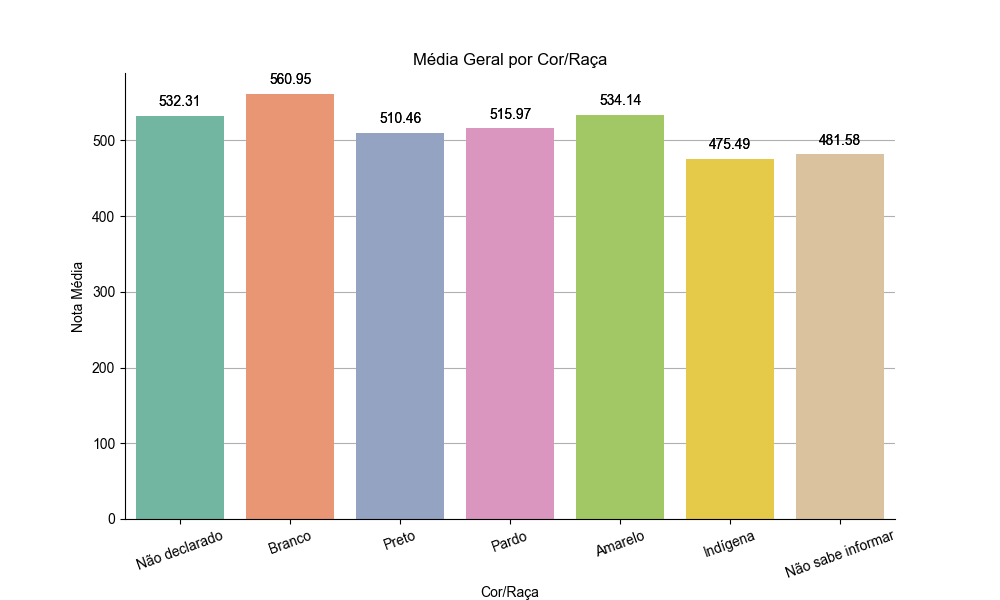
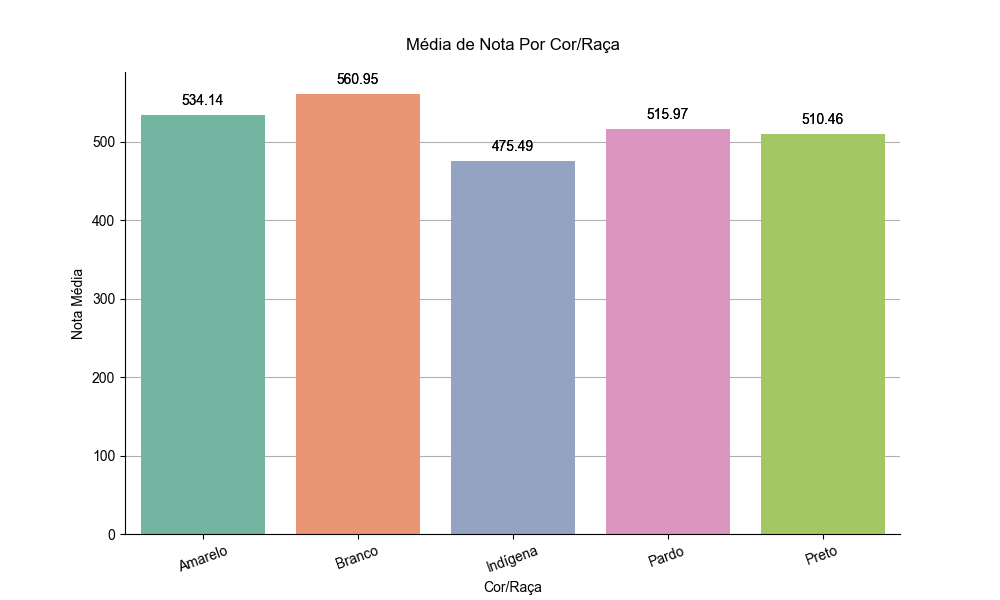
update - plot raça/escola

diff --git a/filtroDados/escolaNota.py b/filtroDados/escolaNota.py
@@ -4,9 +4,9 @@ df_notaEscola = pd.read_csv("C:\Projetos Pessoais\DataScience\/0_dados_pesados\d
 
 '''
 Testagem dos dados
-'''
-print(df_notaEscola.columns)
-print(df_notaEscola.isna().sum())
+# '''
+# print(df_notaEscola.columns)
+# print(df_notaEscola.isna().sum())
 
 # Criar coluna com 'média geral'
 # Criação de coluna generalista para "eliminados" e "presentes"
@@ -41,14 +41,14 @@ mapeamento_cor_raca = {
     5: 'Indígena'
 }
 media_raca['Cor/Raça'] = media_raca['Cor/Raça'].replace(mapeamento_cor_raca)
-print(media_raca)
+# print(media_raca)
 
 # Quantidade de alunos negros, brancos e pardos em escola publica/privada
 
 raca_porEscola = df_notaEscola[df_notaEscola['ELIMINADOS_CONC'] == 'Presente']\
                  .loc[df_notaEscola['TP_COR_RACA'].isin([1,2,3])]\
                  .groupby(['TP_ESCOLA', 'TP_COR_RACA'])['TP_COR_RACA'].count()
-# print(raca_porEscola)
+print(raca_porEscola)
 
 # Inscritos por tipo/escola que faltaram ou estava presentes 
 
@@ -77,17 +77,19 @@ media_tipoEscola_porUF = df_notaEscola[df_notaEscola['ELIMINADOS_CONC'] == 'Pres
 PLOTAGEM
 '''
 cores2 = sns.color_palette("Set2")
+media_raca_sorted = media_raca.sort_values('Cor/Raça')
+
 """ Barplot - média por raça"""
-plt.figure(figsize=(8, 4))
-sns.barplot(x='Cor/Raça', y='Nota Média', data=media_raca)
+plt.figure(figsize=(10, 6))
+sns.barplot(x='Cor/Raça', y='Nota Média', data=media_raca_sorted)
 sns.set_palette(cores2)
 # Adicionar os valores das barras no gráfico
-ax = sns.barplot(x='Cor/Raça', y='Nota Média', data=media_raca)
+ax = sns.barplot(x='Cor/Raça', y='Nota Média', data=media_raca_sorted)
 for p in ax.patches:
     ax.annotate(format(p.get_height(), '.2f'), (p.get_x() + p.get_width() / 2., p.get_height()), ha = 'center', va = 'center', xytext = (0, 10), textcoords = 'offset points')
 # Ajustar a estética do gráfico
 sns.set(style='whitegrid')
-plt.title('Média Geral por Cor/Raça')
+plt.title('Média de Nota Por Cor/Raça', y=1.03)
 plt.xlabel('Cor/Raça')
 plt.ylabel('Nota Média')
 plt.xticks(rotation = 20)
@@ -101,4 +103,18 @@ ax.spines['right'].set_visible(False)
 # plt.show()
 
 """ Pie - Qtde por raça """
-# Configurar a paleta de cores
+plt.figure(figsize=(12, 6))
+# Desenhar o gráfico de pizza com as quantidades
+wedges, texts, autotexts = plt.pie(media_raca_sorted['Quantidade'], labels=media_raca_sorted['Cor/Raça'],
+                                   autopct='%1.1f%%', startangle=100,colors=cores2)
+# Configurar as propriedades dos textos
+plt.setp(autotexts, size=12, color='black')
+# Limpar o círculo central
+centre_circle = plt.Circle((0, 0), 0.85, fc='white')
+fig = plt.gcf()
+fig.gca().add_artist(centre_circle)
+# Calcular e exibir a quantidade total
+total = media_raca['Quantidade'].sum()
+plt.text(0, -0.4, 'Candidatos Presentes: {}'.format(total), ha='center', va='center', fontsize=10)
+plt.title('Proporção de Candidatos presentes por Cor/Raça', y=1.03)
+# plt.show()
